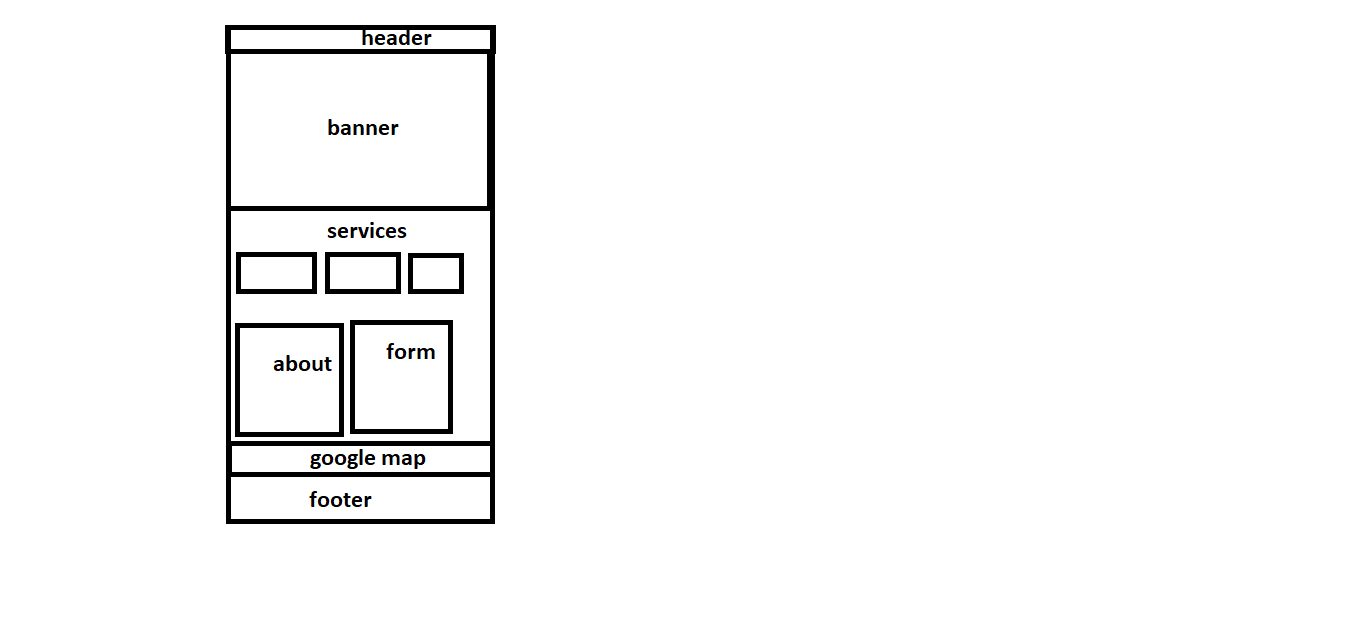
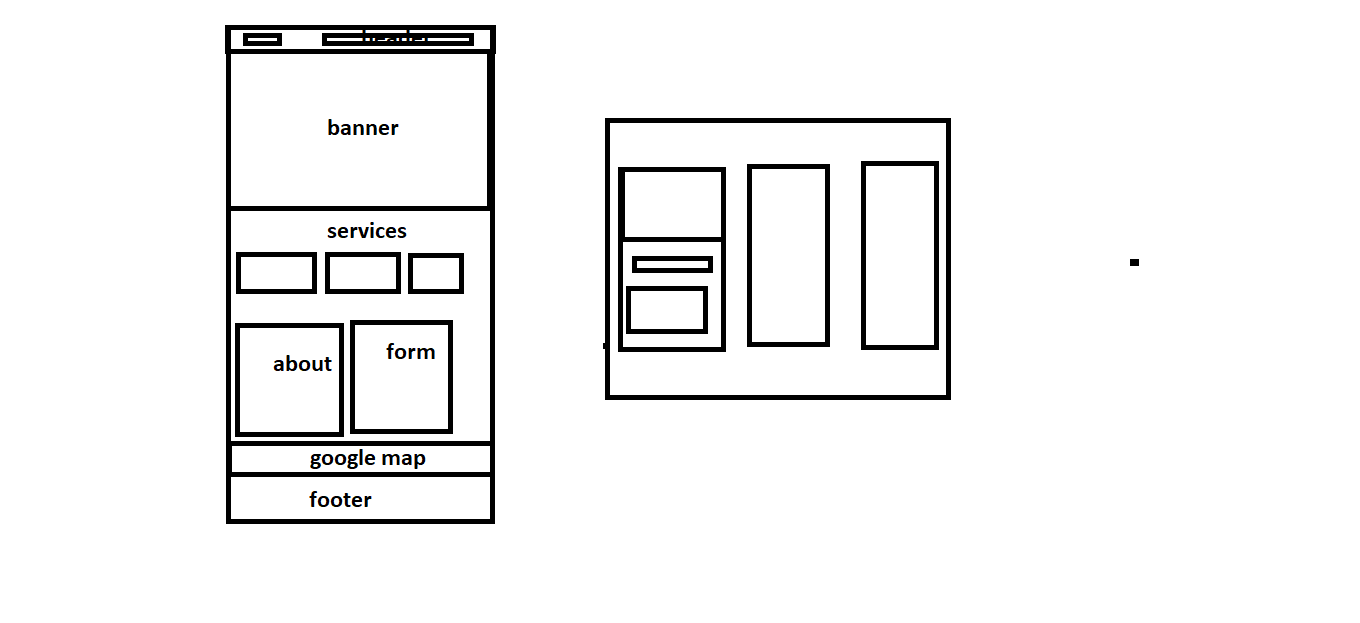
Header Started

Changed region(s): [[0.4324, 0.183, 0.7103, 0.6404], [0.1853, 0.0305, 0.3397, 0.0915]]

diff --git a/index.html b/index.html
@@ -3,15 +3,31 @@
 <head>
     <meta charset="UTF-8">
     <meta name="viewport" content="width=device-width, initial-scale=1.0">
+    <link rel="preconnect" href="https://fonts.googleapis.com">
+    <link rel="preconnect" href="https://fonts.gstatic.com" crossorigin>
+    <link href="https://fonts.googleapis.com/css2?family=Poppins:ital,wght@0,100;0,200;0,300;0,400;0,500;0,600;0,700;0,800;0,900;1,100;1,200;1,300;1,400;1,500;1,600;1,700;1,800;1,900&display=swap" rel="stylesheet">
+    <link rel="stylesheet" href="./css/style.css">
     <title>Project One</title>
 </head>
 <body>
 
-    
+    <header>
+        <div class="Logo">
+            <a href="/"> AREEBA </a>
+        </div>
+        <div class="menues">
+            <ul>
+                <li><a href="#">HOME</a></li>
+                <li><a href="#">HOME</a></li>
+                <li><a href="#">HOME</a></li>
+                <li><a href="#">HOME</a></li>
+            </ul>
+        </div>
+    </header>
 
 
 
 
-    
+
 </body>
 </html>

diff --git a/css/style.css b/css/style.css
@@ -1,0 +1,15 @@
+*{
+    margin: 0;
+    padding: 0;
+    box-sizing: border-box;
+}
+ul{
+    list-style: none;
+}
+a{
+    text-decoration: none;
+}
+
+body{
+    font-family: "Poppins", sans-serif;
+}
